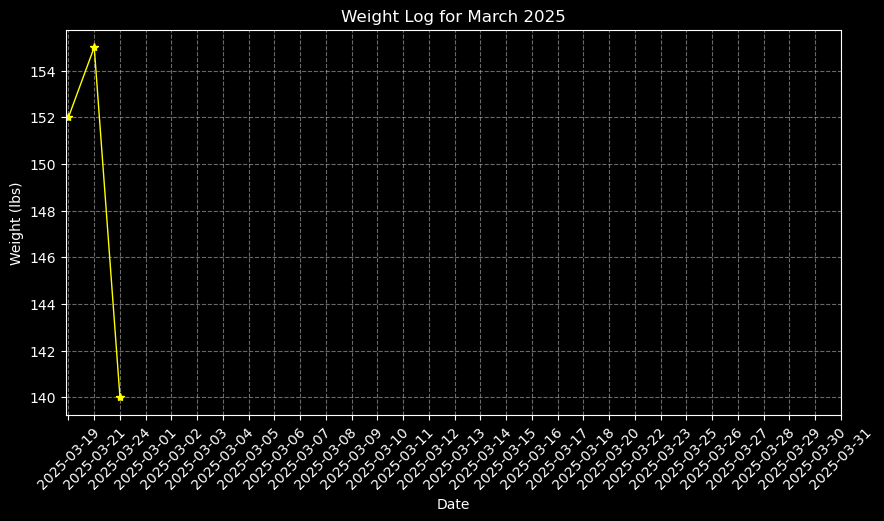
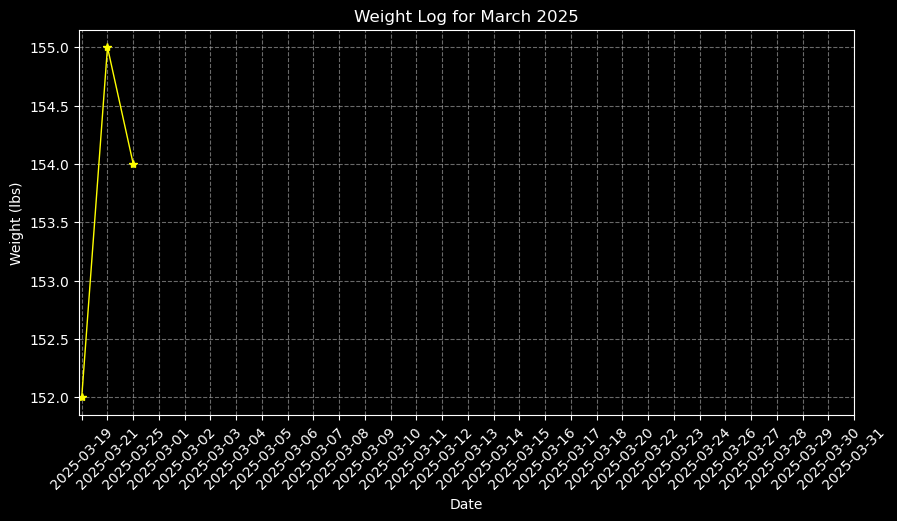
graph stuff - in process of working

diff --git a/mc_basic_code/mc_weightGraph.py b/mc_basic_code/mc_weightGraph.py
@@ -1,110 +1,92 @@
 import matplotlib.pyplot as plt
-print("matplotlib is installed and working!")
 import mysql.connector
 import sys
 import os
 from datetime import datetime, timedelta
-import numpy as np
-import sys
-import traceback
 
-try:
-   # Read year and month from command-line arguments
-   if len(sys.argv) != 3:
-      print("Error: Please provide year and month as arguments.")
-      sys.exit(1)
+# Read year, month, and user ID from command-line arguments
+year = int(sys.argv[1])
+month = int(sys.argv[2])
+user_id = int(sys.argv[3])  # User ID to filter data
 
-   try:
-      year = int(sys.argv[1])
-      month = int(sys.argv[2])
-      if not (1 <= month <= 12):
-         print("Error: Invalid month. Must be between 1 and 12.")
-         sys.exit(1)
-   except ValueError:
-      print("Error: Invalid input. Year and month must be integers.")
-      sys.exit(1)
+BACKGROUND_COLOR = 'black'
+LABEL_COLOR = 'white'
 
-   BACKGROUND_COLOR = 'black'
-   LABEL_COLOR = 'white'
+# Connect to database
+conn = mysql.connector.connect(
+   host="joecool.highpoint.edu",
+   user="ejerrier",
+   password="1788128",
+   database="csc4710_S25_missioncritical",
+   charset="utf8mb4",
+   collation="utf8mb4_general_ci"
+)
+cursor = conn.cursor()
 
-   # Connect to database
-   conn = mysql.connector.connect(
-      host="joecool.highpoint.edu",
-      user="ejerrier",
-      password="1788128",
-      database="csc4710_S25_missioncritical",
-      charset="utf8mb4",
-      collation="utf8mb4_general_ci"
-   )
-   cursor = conn.cursor()
+# Generate all dates for the month
+days_in_month = (datetime(year, month % 12 + 1, 1) - timedelta(days=1)).day
+all_dates = [f"{year}-{month:02d}-{day:02d}" for day in range(1, days_in_month + 1)]
 
-   # Generate all dates for the month
-   days_in_month = (datetime(year, month % 12 + 1, 1) - timedelta(days=1)).day
-   all_dates = [f"{year}-{month:02d}-{day:02d}" for day in range(1, days_in_month + 1)]
+# Get weights from database for the specific user
+cursor.execute("""
+   SELECT DATE(recordedAT) AS log_date, weight
+   FROM progress
+   WHERE YEAR(recordedAT) = %s AND MONTH(recordedAT) = %s AND user_id = %s
+""", (year, month, user_id))
 
-   # Get weights from database
-   cursor.execute("""
-      SELECT DATE(recordedAT) AS log_date, weight
-      FROM progress
-      WHERE YEAR(recordedAT) = %s AND MONTH(recordedAT) = %s
-   """, (year, month))
+# Store data from database
+data = {date: None for date in all_dates}  # Initialize all days as None
+for log_date, weight in cursor.fetchall():
+   data[str(log_date)] = weight  # Fill actual values from database
 
-   # Store data from database
-   data = {date: None for date in all_dates}  # Initialize all days as None
-   for log_date, weight in cursor.fetchall():
-      data[str(log_date)] = weight  # Fill actual values from database
+cursor.close()
+conn.close()
 
-   cursor.close()
-   conn.close()
+# Prepare data for graph
+dates = []
+weights = []
 
-   # Prepare data for graph
-   dates = []
-   weights = []
+for date, weight in data.items():
+   if weight is not None:  # Only plot existing data points
+      dates.append(datetime.strptime(date, "%Y-%m-%d"))
+      weights.append(weight)
 
-   for date, weight in data.items():
-      if weight is not None:  # Only plot existing data points
-         dates.append(datetime.strptime(date, "%Y-%m-%d"))
-         weights.append(weight)
+# Sort data by date to ensure correct chronological order
+if dates:
+    dates, weights = zip(*sorted(zip(dates, weights)))
+    dates = [date.strftime("%Y-%m-%d") for date in dates]
+else:
+    dates, weights = [], []
 
-   # Sort data by date to ensure correct chronological order
-   dates, weights = zip(*sorted(zip(dates, weights)))
+# Set graph appearance
+plt.rcParams['text.color'] = LABEL_COLOR
+plt.rcParams['axes.labelcolor'] = LABEL_COLOR
+plt.rcParams['axes.edgecolor'] = LABEL_COLOR
+plt.rcParams['xtick.color'] = LABEL_COLOR
+plt.rcParams['ytick.color'] = LABEL_COLOR
 
-   dates = [date.strftime("%Y-%m-%d") for date in dates]
+fig = plt.figure(figsize=(10, 5))
+fig.patch.set_facecolor(BACKGROUND_COLOR)
+ax = fig.add_subplot(1, 1, 1)
+ax.set_facecolor(BACKGROUND_COLOR)
 
-   # Set graph appearance
-   plt.rcParams['text.color'] = LABEL_COLOR
-   plt.rcParams['axes.labelcolor'] = LABEL_COLOR
-   plt.rcParams['axes.edgecolor'] = LABEL_COLOR
-   plt.rcParams['xtick.color'] = LABEL_COLOR
-   plt.rcParams['ytick.color'] = LABEL_COLOR
+# Plot data
+if dates and weights:
+    plt.plot(dates, weights, label="Weight", color='yellow', linestyle='solid', linewidth=1,
+          marker="*", markerfacecolor='yellow')
 
-   fig = plt.figure(figsize=(10, 5))
-   fig.patch.set_facecolor(BACKGROUND_COLOR)
-   ax = fig.add_subplot(1, 1, 1)
-   ax.set_facecolor(BACKGROUND_COLOR)
+# Set all dates as x-ticks
+plt.xticks(all_dates, rotation=45)
 
-   # Plot data
-   plt.plot(dates, weights, label="Weight", color='yellow', linestyle='solid', linewidth=1,
-         marker="*", markerfacecolor='yellow')
+plt.xlabel("Date")
+plt.ylabel("Weight (lbs)")
+plt.title(f"Weight Log for {datetime(year, month, 1).strftime('%B %Y')}")
+plt.grid(True, linestyle="--", alpha=0.6)
 
-   # Set all dates as x-ticks
-   plt.xticks(all_dates, rotation=45)
+# Ensure output directory exists
+output_path = "./frontend/images/weightGraph.png"
+os.makedirs(os.path.dirname(output_path), exist_ok=True)
 
-   plt.xlabel("Date")
-   plt.ylabel("Weight (lbs)")
-   plt.title(f"Weight Log for {datetime(year, month, 1).strftime('%B %Y')}")
-   plt.grid(True, linestyle="--", alpha=0.6)
-
-
-   # Ensure output directory exists
-   output_path = "./frontend/images/weightGraph.png"
-   os.makedirs(os.path.dirname(output_path), exist_ok=True)
-
-   # Save the graph
-   plt.savefig(output_path, bbox_inches='tight')
-   print(output_path)  # Print the file path for PHP
-except Exception as e:
-    with open("error_log.txt", "a") as f:
-        f.write(str(e) + "\n")
-        f.write(traceback.format_exc() + "\n")
-    sys.exit(1)
+# Save the graph
+plt.savefig(output_path, bbox_inches='tight')
+print(output_path)  # Print the file path for PHP

diff --git a/backend/display_graph.php b/backend/display_graph.php
@@ -3,42 +3,63 @@ ini_set('display_errors', 1);
 ini_set('display_startup_errors', 1);
 error_reporting(E_ALL);
 
-// Check if year and month parameters are set in the URL
-if (isset($_GET['year']) && isset($_GET['month'])) {
-    $year = intval($_GET['year']);   // Sanitize input to ensure it's an integer
-    $month = intval($_GET['month']); // Sanitize input to ensure it's an integer
+session_start(); // Start session to get user ID
 
-    // Validate inputs
+if (!isset($_SESSION['user_id'])) {
+    echo json_encode(["status" => "error", "message" => "User not logged in."]);
+    exit();
+}
+
+$user_id = intval($_SESSION['user_id']); // Get logged-in user ID
+
+if (isset($_GET['year']) && isset($_GET['month'])) {
+    $year = intval($_GET['year']);
+    $month = intval($_GET['month']);
+
     if ($year < 1900 || $year > 2100 || $month < 1 || $month > 12) {
-        echo "Error: Invalid year or month.";
+        echo json_encode(["status" => "error", "message" => "Invalid year or month."]);
         exit();
     }
 
-   // Run the Python script and capture the output (image path)
-   $command = "/usr/local/bin/python3 ../mc_basic_code/mc_weightGraph.py $year $month 2>&1";
+    $command = escapeshellcmd("/usr/bin/python3 ../mc_basic_code/mc_weightGraph.py $year $month $user_id");
+    $descriptor_spec = [
+        0 => ["pipe", "r"],  // stdin
+        1 => ["pipe", "w"],  // stdout
+        2 => ["pipe", "w"]   // stderr
+    ];
 
-   error_log("Executing command: " . $command);
+    $process = proc_open($command, $descriptor_spec, $pipes);
 
-   $output = shell_exec($command);
-   $exitCode = shell_exec("echo $?"); // Capture the exit code
+    if (is_resource($process)) {
+        $output = stream_get_contents($pipes[1]);
+        $error_output = stream_get_contents($pipes[2]);
+        fclose($pipes[1]);
+        fclose($pipes[2]);
 
-   error_log("Shell Output: " . var_export($output, true));
-   error_log("Exit Code: " . trim($exitCode));
+        $return_value = proc_close($process);
 
-   if ($output === null) {
-      echo json_encode(["status" => "error", "message" => "shell_exec failed."]);
-      exit();
-   }
+        error_log("Command: $command");
+        error_log("Output: $output");
+        error_log("Error Output: $error_output");
+        error_log("Return Value: $return_value");
 
-   $image_path = trim($output);
+        if ($return_value !== 0) {
+            echo json_encode(["status" => "error", "message" => "Error executing Python script.", "error" => $error_output]);
+            exit();
+        }
 
-   if (!empty($image_path) && file_exists($image_path)) {
-      echo json_encode(["status" => "success", "path" => $image_path]);
-   } else { 
-      error_log("Error: Image not found at " . $image_path);
-      echo json_encode(["status" => "error", "message" => "Error generating graph."]);
-   }
+        $image_path = trim($output);
+
+        if (!empty($image_path) && file_exists($image_path)) {
+            echo json_encode(["status" => "success", "path" => $image_path]);
+        } else {
+            error_log("Error: Image not found at " . $image_path);
+            echo json_encode(["status" => "error", "message" => "Error generating graph."]);
+        }
+    } else {
+        echo json_encode(["status" => "error", "message" => "Failed to open process."]);
+    }
 } else {
-    echo "Error: Year and month are required.";
+    echo json_encode(["status" => "error", "message" => "Year and month are required."]);
 }
 ?>
